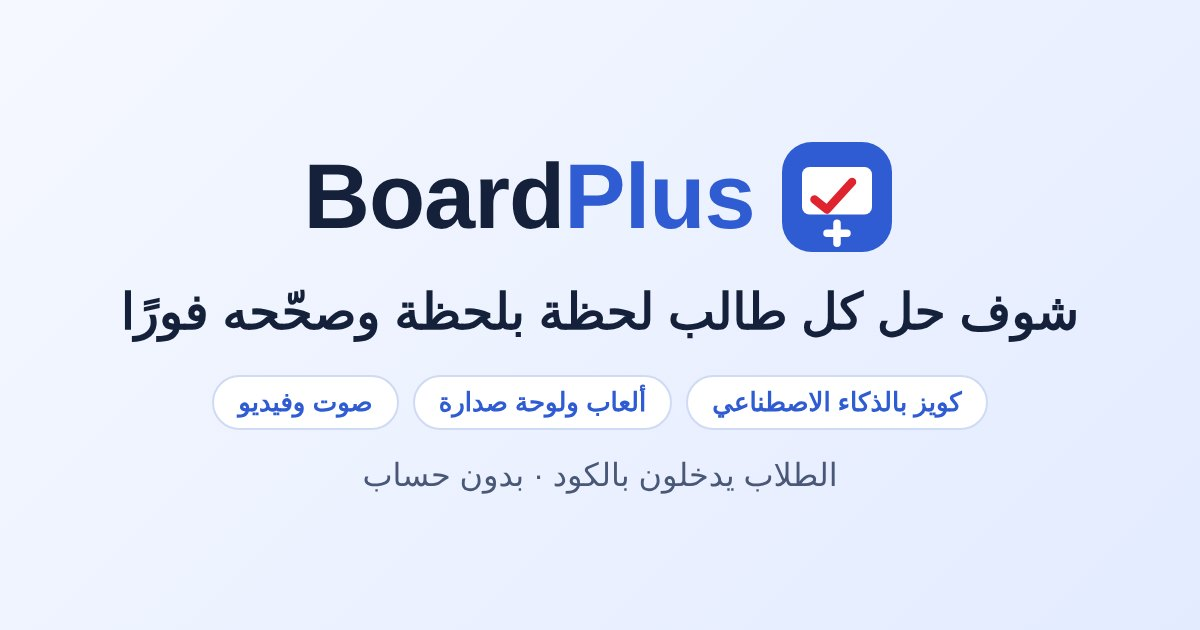
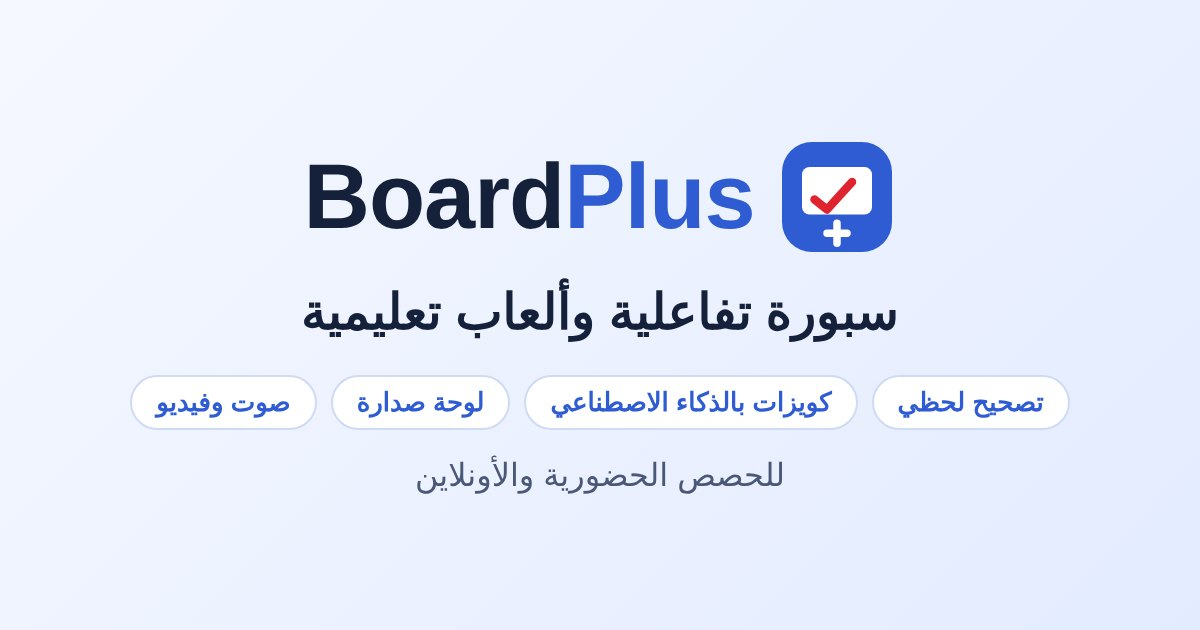
General product title, description and preview image
Claude-Session: https://claude.ai/code/session_01XAK1E6rtJr1u8sYYQSCuky

diff --git a/public/index.html b/public/index.html
@@ -4,13 +4,13 @@
 <meta charset="utf-8">
 <meta name="viewport" content="width=device-width,initial-scale=1,viewport-fit=cover">
 <link rel="icon" href="favicon.svg" type="image/svg+xml">
-<title>BoardPlus | شوف حل كل طالب لحظة بلحظة وصحّحه فورًا</title>
-<meta name="description" content="سبورة الحصة التفاعلية: كل طالب يحل على سبورته وأنت تشوف وتصحح لحظيًا، مع كويز فوري بالذكاء الاصطناعي وألعاب ولوحة صدارة وعرض صوت وفيديو. الطلاب يدخلون بالكود بدون حساب.">
-<meta property="og:title" content="BoardPlus | شوف حل كل طالب لحظة بلحظة وصحّحه فورًا">
+<title>BoardPlus | سبورة تفاعلية وألعاب تعليمية وكويزات بالذكاء الاصطناعي</title>
+<meta name="description" content="منصة تعليمية تفاعلية للحصص الحضورية والأونلاين: سبورة لحظية لكل طالب، وتصحيح مباشر، وكويزات فورية بالذكاء الاصطناعي، وألعاب تعليمية ولوحة صدارة، وعرض صوت وفيديو وباوربوينت.">
+<meta property="og:title" content="BoardPlus | سبورة تفاعلية وألعاب تعليمية وكويزات بالذكاء الاصطناعي">
 <meta property="og:image" content="https://boardplus.mawhibax.com/og.jpg">
 <meta property="og:image:width" content="1200">
 <meta property="og:image:height" content="630">
-<meta property="og:description" content="سبورة الحصة التفاعلية: كل طالب يحل على سبورته وأنت تشوف وتصحح لحظيًا، مع كويز فوري بالذكاء الاصطناعي وألعاب ولوحة صدارة وعرض صوت وفيديو. الطلاب يدخلون بالكود بدون حساب.">
+<meta property="og:description" content="منصة تعليمية تفاعلية للحصص الحضورية والأونلاين: سبورة لحظية لكل طالب، وتصحيح مباشر، وكويزات فورية بالذكاء الاصطناعي، وألعاب تعليمية ولوحة صدارة، وعرض صوت وفيديو وباوربوينت.">
 <meta property="og:type" content="website">
 <meta name="twitter:card" content="summary_large_image">
 <meta name="application-name" content="BoardPlus">

diff --git a/dev/preview.html b/dev/preview.html
@@ -1,10 +1,10 @@
-<title>BoardPlus | شوف حل كل طالب لحظة بلحظة وصحّحه فورًا</title>
-<meta name="description" content="سبورة الحصة التفاعلية: كل طالب يحل على سبورته وأنت تشوف وتصحح لحظيًا، مع كويز فوري بالذكاء الاصطناعي وألعاب ولوحة صدارة وعرض صوت وفيديو. الطلاب يدخلون بالكود بدون حساب.">
-<meta property="og:title" content="BoardPlus | شوف حل كل طالب لحظة بلحظة وصحّحه فورًا">
+<title>BoardPlus | سبورة تفاعلية وألعاب تعليمية وكويزات بالذكاء الاصطناعي</title>
+<meta name="description" content="منصة تعليمية تفاعلية للحصص الحضورية والأونلاين: سبورة لحظية لكل طالب، وتصحيح مباشر، وكويزات فورية بالذكاء الاصطناعي، وألعاب تعليمية ولوحة صدارة، وعرض صوت وفيديو وباوربوينت.">
+<meta property="og:title" content="BoardPlus | سبورة تفاعلية وألعاب تعليمية وكويزات بالذكاء الاصطناعي">
 <meta property="og:image" content="https://boardplus.mawhibax.com/og.jpg">
 <meta property="og:image:width" content="1200">
 <meta property="og:image:height" content="630">
-<meta property="og:description" content="سبورة الحصة التفاعلية: كل طالب يحل على سبورته وأنت تشوف وتصحح لحظيًا، مع كويز فوري بالذكاء الاصطناعي وألعاب ولوحة صدارة وعرض صوت وفيديو. الطلاب يدخلون بالكود بدون حساب.">
+<meta property="og:description" content="منصة تعليمية تفاعلية للحصص الحضورية والأونلاين: سبورة لحظية لكل طالب، وتصحيح مباشر، وكويزات فورية بالذكاء الاصطناعي، وألعاب تعليمية ولوحة صدارة، وعرض صوت وفيديو وباوربوينت.">
 <meta property="og:type" content="website">
 <meta name="twitter:card" content="summary_large_image">
 <meta name="application-name" content="BoardPlus">

diff --git a/dev/make_board.py b/dev/make_board.py
@@ -16,8 +16,8 @@ def rep_block(start, end, new):
     s = s[:a] + new + s[b:]
 
 # ---------------- head ----------------
-T = 'BoardPlus | شوف حل كل طالب لحظة بلحظة وصحّحه فورًا'
-DESC = 'سبورة الحصة التفاعلية: كل طالب يحل على سبورته وأنت تشوف وتصحح لحظيًا، مع كويز فوري بالذكاء الاصطناعي وألعاب ولوحة صدارة وعرض صوت وفيديو. الطلاب يدخلون بالكود بدون حساب.'
+T = 'BoardPlus | سبورة تفاعلية وألعاب تعليمية وكويزات بالذكاء الاصطناعي'
+DESC = 'منصة تعليمية تفاعلية للحصص الحضورية والأونلاين: سبورة لحظية لكل طالب، وتصحيح مباشر، وكويزات فورية بالذكاء الاصطناعي، وألعاب تعليمية ولوحة صدارة، وعرض صوت وفيديو وباوربوينت.'
 head_end = s.index('<meta name="claude:viewport-fit-sides" content="cover">')
 s = f'''<title>{T}</title>
 <meta name="description" content="{DESC}">
